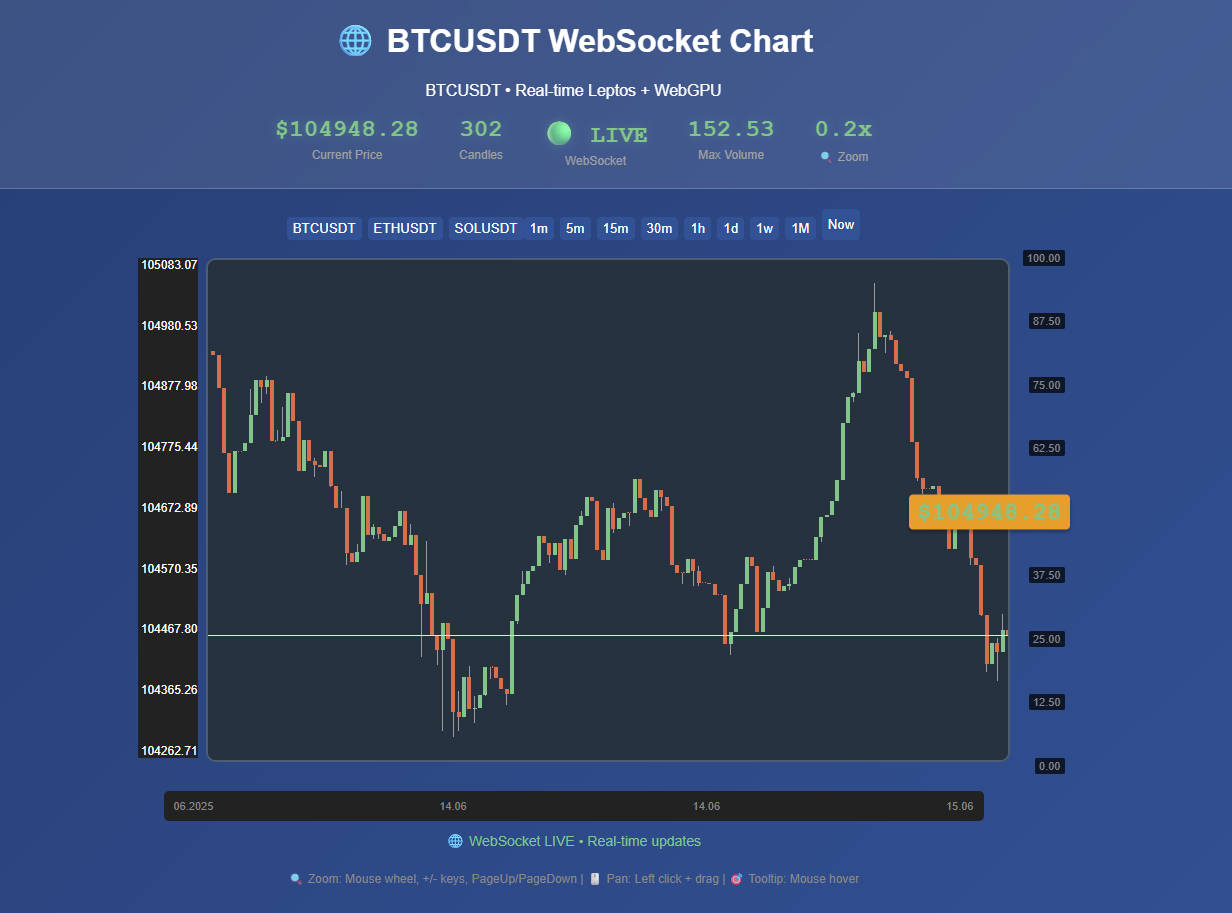
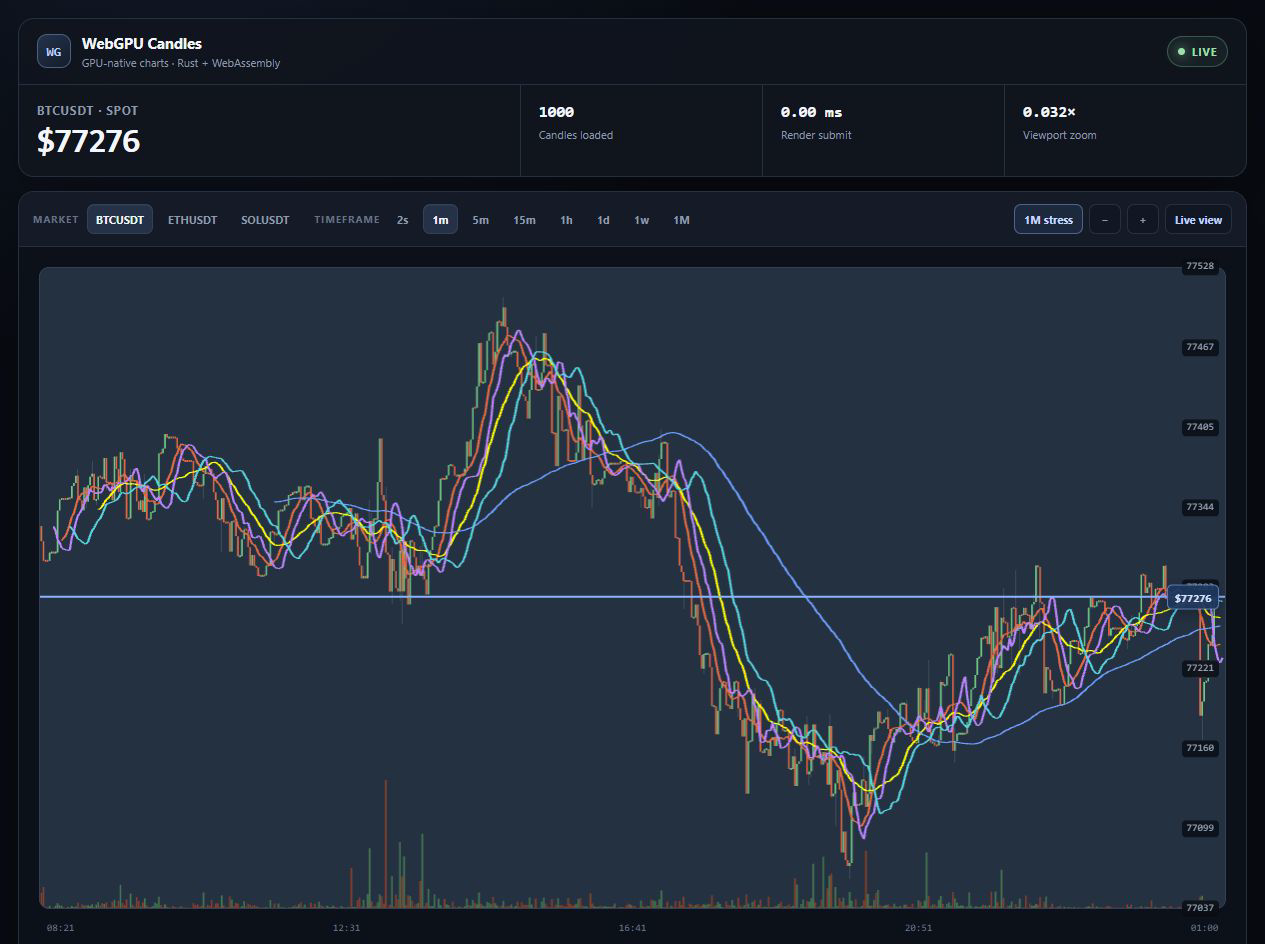
Refresh chart documentation and viewport

diff --git a/e2e/chart.spec.ts b/e2e/chart.spec.ts
@@ -155,7 +155,7 @@ test('loads WebGPU chart and keeps controls internally consistent', async ({ pag
   expect(await page.locator('.price-level').allTextContents()).toEqual(scaleBefore);
 
   const requestCountBeforeZoom = market.urls.length;
-  for (let index = 0; index < 16; index += 1) {
+  for (let index = 0; index < 30; index += 1) {
     await page.getByRole('button', { name: 'Zoom in' }).click();
   }
   await expect(page.locator('.metric-value').last()).toHaveText('4.0×');
@@ -240,6 +240,7 @@ test('stays interactive after live ticks and changes the active timeframe', asyn
     )
     .toBe(true);
   await expect(page.locator('.connection-pill')).toHaveText(/LIVE/);
+  await expect(page.locator('.metric-value').last()).toHaveText('0.032×');
   await expect.poll(() => page.locator('.time-scale').innerText()).not.toBe(oneMinuteRange);
 
   const beforePan = await page.locator('.time-scale').innerText();
@@ -276,7 +277,7 @@ test('loads older history only after reaching the left edge', async ({ page }) =
   await openReadyChart(page);
 
   const initialCount = Number(await page.locator('.metric-value').first().innerText());
-  expect(initialCount).toBe(1_000);
+  expect(initialCount).toBeGreaterThanOrEqual(1_000);
   expect(market.historyCount).toBe(0);
 
   await dragRight(page, 14);

diff --git a/src/domain/chart/entities.rs b/src/domain/chart/entities.rs
@@ -221,29 +221,39 @@ impl Chart {
         self.indicators.retain(|ind| ind.id != indicator_id);
     }
 
-    /// Update the viewport based on candle data
+    /// Update the viewport from the base series.
     pub fn update_viewport_for_data(&mut self) {
-        if let Some(base) = self.series.get(&TimeInterval::TwoSeconds)
-            && let Some((min_price, max_price)) = base.price_range()
-        {
-            // Add padding for better visualization (5% top and bottom)
-            let mut min_v = min_price.value() as f32;
-            let mut max_v = max_price.value() as f32;
-            let price_range = (max_v - min_v).abs().max(1e-6);
-            let padding = price_range * 0.05;
-            min_v -= padding;
-            max_v += padding;
+        self.update_viewport_for_series(TimeInterval::TwoSeconds);
+    }
 
-            self.viewport.min_price = min_v.max(0.1); // Minimum $0.1
-            self.viewport.max_price = max_v;
+    /// Update the viewport to fit every candle in the selected series.
+    pub fn update_viewport_for_series(&mut self, interval: TimeInterval) {
+        let Some((min_price, max_price, first_time, last_time)) =
+            self.series.get(&interval).and_then(|series| {
+                let (min_price, max_price) = series.price_range()?;
+                Some((
+                    min_price,
+                    max_price,
+                    series.get_candles().front()?.timestamp.value(),
+                    series.get_candles().back()?.timestamp.value(),
+                ))
+            })
+        else {
+            return;
+        };
 
-            // Update the time range
-            let candles = base.get_candles();
-            if !candles.is_empty() {
-                self.viewport.start_time = candles.front().unwrap().timestamp.value() as f64;
-                self.viewport.end_time = candles.back().unwrap().timestamp.value() as f64;
-            }
-        }
+        // Add padding for better visualization (5% top and bottom)
+        let mut min_v = min_price.value() as f32;
+        let mut max_v = max_price.value() as f32;
+        let price_range = (max_v - min_v).abs().max(1e-6);
+        let padding = price_range * 0.05;
+        min_v -= padding;
+        max_v += padding;
+
+        self.viewport.min_price = min_v.max(0.1); // Minimum $0.1
+        self.viewport.max_price = max_v;
+        self.viewport.start_time = first_time as f64;
+        self.viewport.end_time = last_time as f64;
     }
 
     pub fn zoom(&mut self, factor: f32, center_x: f32) {

diff --git a/src/app.rs b/src/app.rs
@@ -1242,21 +1242,8 @@ fn pan_chart(
 
 fn reset_chart_viewport(chart: RwSignal<Chart>) {
     chart.update_untracked(|current| {
-        current.update_viewport_for_data();
         let interval = current_interval().get_untracked();
-        let Some(series) = current.get_series(interval) else {
-            return;
-        };
-        let candles = series.get_candles();
-        if candles.is_empty() {
-            return;
-        }
-
-        let start = candles.len().saturating_sub(DEFAULT_VISIBLE_CANDLES);
-        let start_time = candles[start].timestamp.value() as f64;
-        let end_time = candles.back().unwrap().timestamp.value() as f64;
-        current.viewport.start_time = start_time;
-        current.viewport.end_time = end_time;
+        current.update_viewport_for_series(interval);
     });
 }
 

diff --git a/README.md b/README.md
@@ -1,193 +1,89 @@
 # WebGPU Candles
 
-![screenshot](res/screen.png)
+![WebGPU Candles dashboard with BTCUSDT selected](res/screen.png)
 
-A demonstration Bitcoin candlestick chart built with **WebGPU** for rendering and **Leptos** for the reactive UI. Real-time price data is streamed from Binance via WebSocket and drawn directly to a `<canvas>` using Rust compiled to WebAssembly.
-The chart supports zoom levels from roughly `0.2x` up to `32x` with a minimum of one visible candle.
-> **Note**: WebGPU must be enabled in your browser. The demo works in Microsoft Edge but is not supported in Firefox.
+An interactive spot-market candlestick chart rendered with WebGPU in Rust/WebAssembly. The Leptos UI combines Binance REST history with live WebSocket updates and keeps supported markets ready for instant switching.
 
 ## Demo
 
-The development version is available at <https://qqrm.github.io/webgpu-candles/dev/>, and release builds
-are published at <https://qqrm.github.io/webgpu-candles/>. GitHub Pages publishes these files from the
-`gh-pages` branch, keeping build artifacts out of `main`.
+- [Release](https://qqrm.github.io/webgpu-candles/)
+- [Development build](https://qqrm.github.io/webgpu-candles/dev/)
 
-The project requires the `wasm32-unknown-unknown` target, which the build script verifies is installed. Install it with:
-`rustup target add wasm32-unknown-unknown`.
+Use a browser with WebGPU enabled. Chromium-based browsers such as Chrome and Microsoft Edge are the tested targets.
 
-## Setup
+## Features
+
+- BTCUSDT, ETHUSDT, and SOLUSDT spot markets, with a live stream kept open for each market.
+- Timeframes from two seconds to one month: `2s`, `1m`, `5m`, `15m`, `1h`, `1d`, `1w`, and `1M`. The two-second view aggregates Binance one-second candles.
+- REST backfill when panning to the oldest loaded candle, plus live updates at the current edge.
+- Mouse-wheel and button zoom, drag-to-pan, double-click reset, price and time scales, OHLCV tooltip, volume bars, and a current-price marker.
+- Toggleable SMA 20/50/200 and EMA 12/26 overlays.
+- A deterministic one-million-candle stress mode. It keeps the source data resident while limiting the rendered OHLCV level of detail to 4,096 GPU bars.
+
+## Requirements
+
+- Rust stable and the `wasm32-unknown-unknown` target.
+- [Trunk](https://trunkrs.dev/) for local builds and serving.
+- A WebGPU-capable browser for the application and Chromium for browser tests.
 
 ```bash
-# Add the WebAssembly compilation target
 rustup target add wasm32-unknown-unknown
-# Install Trunk for building and serving
-cargo install trunk
+cargo install trunk --locked
 ```
 
-Install either [Trunk](https://trunkrs.dev/) or [wasm-pack](https://rustwasm.github.io/wasm-pack/) depending on your preferred workflow.
-
-To automatically format and lint the code before each commit, enable the pre-commit hook:
+## Run locally
 
 ```bash
-git config core.hooksPath .githooks
+trunk serve
 ```
 
-## Building with Trunk
-
-Trunk compiles the project and automatically injects the generated WASM into `index.html`:
+Open <http://127.0.0.1:8080>. To produce a local release bundle without changing the deployment directory:
 
 ```bash
-trunk serve       # dev server on http://localhost:8080
-# or
-trunk build --dist dist-local
+trunk build --release --dist dist-local
 ```
 
-Local builds are saved to `dist-local`. In GitHub Actions the `dist` path is
-uploaded to the `gh-pages` branch to publish the demo. The `dist/` directory is
-not stored in the repository; the `gh-pages` branch contains the `version`
-file with the SHA of the last commit.
+The CI deployment builds `dist/` and publishes it to GitHub Pages.
 
-Both release and development builds are deployed to `gh-pages`. To use a different location, adjust the deployment steps in the workflow files:
-`.github/workflows/build.yml` and `.github/workflows/release.yml`.
-
-When using Trunk, open **`index.html`** (served automatically when using `trunk serve`). The file contains a Trunk hook so the WASM is loaded for you:
-
-```html
-<!-- Trunk will automatically inject the WASM here -->
-
-<link data-trunk rel="rust" data-wasm-opt="z" />
-```
-
-### Subresource Integrity
-
-Trunk automatically includes integrity hashes for the generated JavaScript
-and WebAssembly files.
-
-## Building with wasm-pack
-
-Alternatively, you can build using wasm-pack:
+## Test
 
 ```bash
-wasm-pack build --target web --release
+# Native unit and integration tests
+cargo test
+
+# Deterministic browser end-to-end suite
+npx playwright install chromium
+npm run test:e2e
 ```
 
-This produces a `pkg/` directory with the compiled `price_chart_wasm.js`. After running wasm-pack, open **`leptos-index.html`**, which manually imports the generated file:
+The end-to-end suite builds a release bundle, mocks Binance REST and WebSocket responses, and covers market switching, timeframe changes, zooming, panning, history loading, and the one-million-candle mode. Failure traces, screenshots, and the HTML report are written to `test-results/` and `playwright-report/`.
 
-```html
-<script type="module">
-    import init, { hydrate } from './pkg/price_chart_wasm.js';
-    // ...
-</script>
+Browser-targeted Rust tests can also be run with [wasm-pack](https://rustwasm.github.io/wasm-pack/):
+
+```bash
+wasm-pack test --chrome --headless
 ```
 
-## Directory Structure
-
-Key folders are under `src/`:
+## Project layout
 
 ```text
 src/
-├── app.rs                  # Leptos UI components and reactivity
-├── lib.rs                  # WASM exports (entry points)
-├── simple_shader.wgsl      # WebGPU shaders
-├── domain/                 # Core domain logic (chart, market data, logging)
-├── infrastructure/         # WebSocket and WebGPU renderer implementations
+├── app.rs                  # Leptos UI and interactions
+├── domain/                 # Chart and market-data domain logic
+├── ecs/                    # Chart update systems
+└── infrastructure/         # Binance clients and WebGPU renderer
 ```
-
-For more architectural details see [ARCHITECTURE.md](DOCS/ARCHITECTURE.md).
-Planned features are listed in [FEATURES.md](DOCS/FEATURES.md).
-Details on the WebSocket feed are in [WEBSOCKETS.md](DOCS/WEBSOCKETS.md).
 
 ## Documentation
 
-All additional documentation lives in the [`DOCS/`](DOCS/) directory:
-
-- [ARCHITECTURE.md](DOCS/ARCHITECTURE.md)
-- [FEATURES.md](DOCS/FEATURES.md)
-- [WEBSOCKETS.md](DOCS/WEBSOCKETS.md)
-- [CONTRIBUTING.md](DOCS/CONTRIBUTING.md)
-- [PIPELINES.md](.github/workflows/PIPELINES.md)
-- [TESTS.md](DOCS/TESTS.md)
-- [PIPELINES.md](DOCS/PIPELINES.md)
-- [VOLUME_SYNC_FIXES.md](DOCS/VOLUME_SYNC_FIXES.md)
-- [COLORS.md](DOCS/COLORS.md)
-
-## Chart Elements
-
-The chart is composed of several layers:
-
-- Candles with wicks representing OHLC data
-- Volume bars below the main chart
-- Time and price grid lines
-- A highlighted line for the current price
-- Technical indicators:
-  - Simple Moving Averages (20, 50, 200 periods)
-  - Exponential Moving Averages (12, 26 periods)
-  - Ichimoku cloud with Tenkan, Kijun, Senkou spans and Chikou line
-
-## Benchmarks
-
-To measure performance use:
-
-```bash
-wasm-pack test --chrome --headless
-```
-
-FPS is printed to the console and the `perf.yml` workflow saves the log as an
-artifact. Current metric values are stored in [PIPELINES.md](.github/workflows/PIPELINES.md).
-`tests/performance_limit.rs` logs when FPS drops below 30 for large charts.
-
-The `1M stress` control also provides an in-browser benchmark: it generates and
-bulk-loads one million deterministic two-second candles, reports generation,
-load, and first-render time, and keeps the full source series resident. Rendering
-uses viewport-aware OHLCV level-of-detail aggregation capped at 4,096 GPU bars,
-so the complete data set can be inspected without creating one draw item per
-source candle.
-
-
-## Tests
-
-The tests use [`wasm-bindgen-test`](https://docs.rs/wasm-bindgen-test). Run
-them with:
-
-```bash
-wasm-pack test --chrome --headless
-
-```
-or
-```bash
-wasm-pack test --chrome
-```
-
-Alternatively install Node dependencies and run:
-
-```bash
-npm install
-npm test
-```
-
-See [TESTS.md](DOCS/TESTS.md) for more details about the test suite.
-
-## Native Run
-
-For benchmarking outside the browser you can run the native binary. Parallel ECS
-systems powered by Rayon are enabled automatically:
-
-```bash
-cargo run --release --features parallel
-```
-## Docker
-
-Build and run the container with:
-```bash
-docker build -t webgpu-candles .
-docker run --rm -p 8080:80 webgpu-candles
-```
-(the container uses nginx, so port 80 is mapped to host 8080).
-
-## Debug
-```bash
-npx wscat -c wss://stream.binance.com:9443/ws/btcusdt@kline_1m
-```
+- [Architecture](DOCS/ARCHITECTURE.md)
+- [Features](DOCS/FEATURES.md)
+- [WebSocket integration](DOCS/WEBSOCKETS.md)
+- [Tests](DOCS/TESTS.md)
+- [CI pipelines](DOCS/PIPELINES.md)
+- [Contributing](DOCS/CONTRIBUTING.md)
+- [Color palette](DOCS/COLORS.md)
 
 ## License
-This project is distributed under the [MIT License](LICENSE).
+
+Distributed under the [MIT License](LICENSE).
